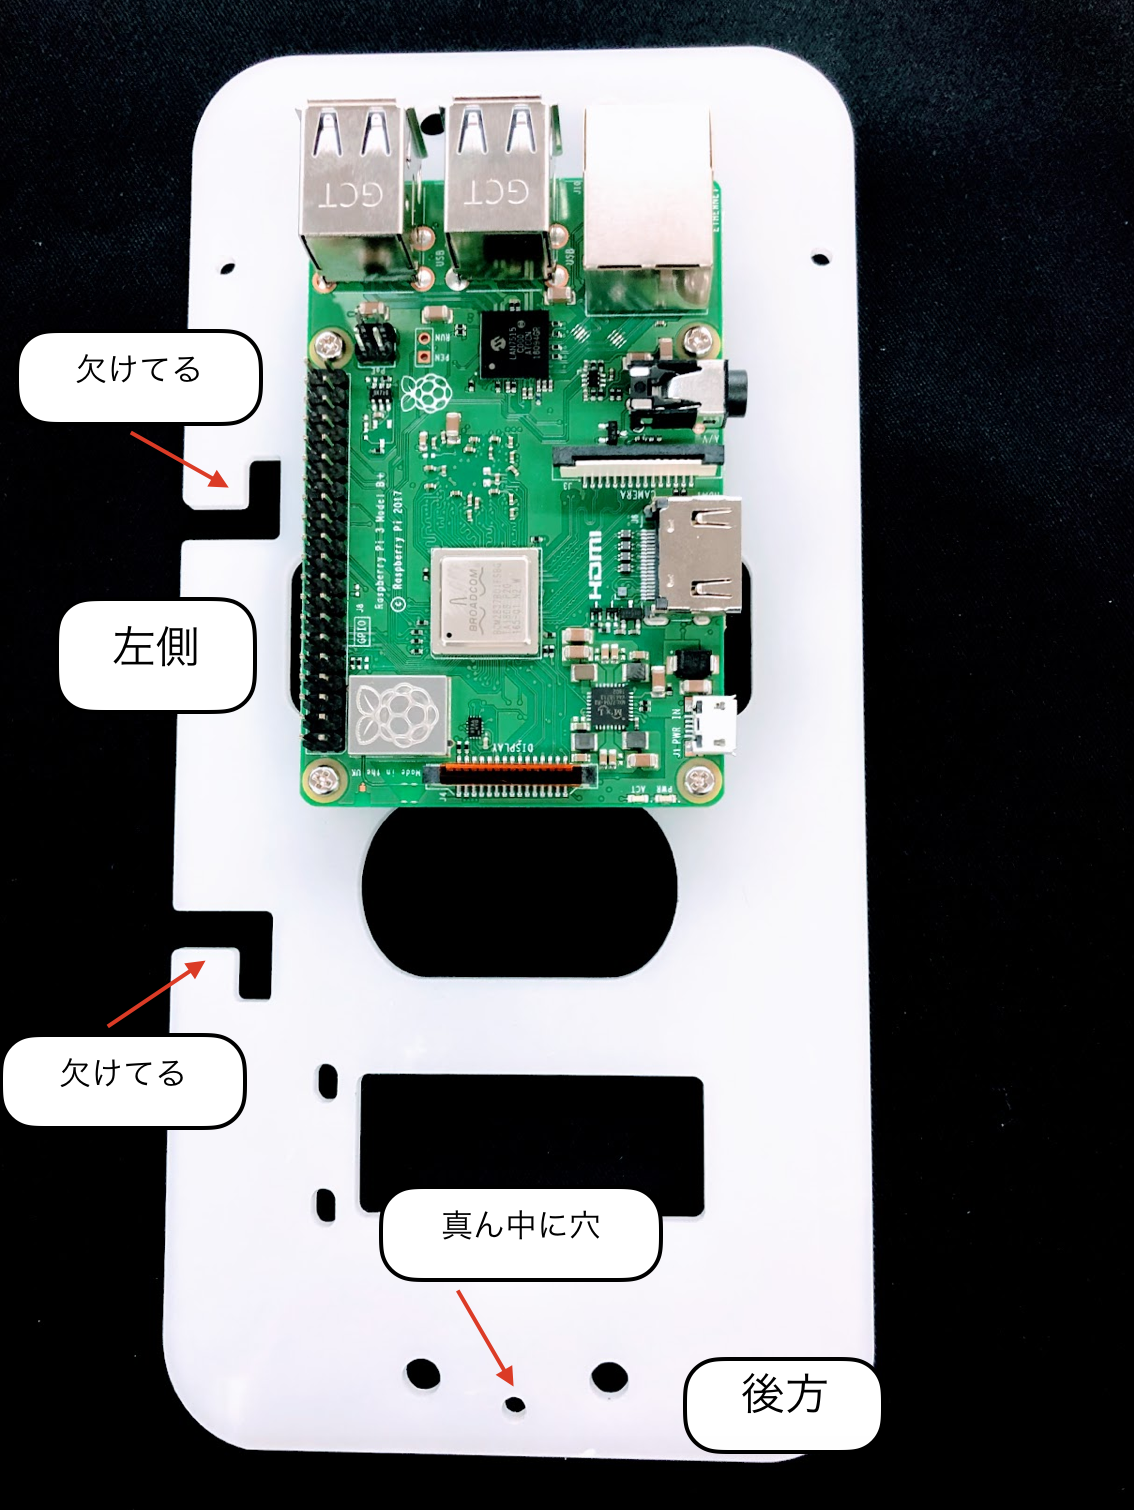
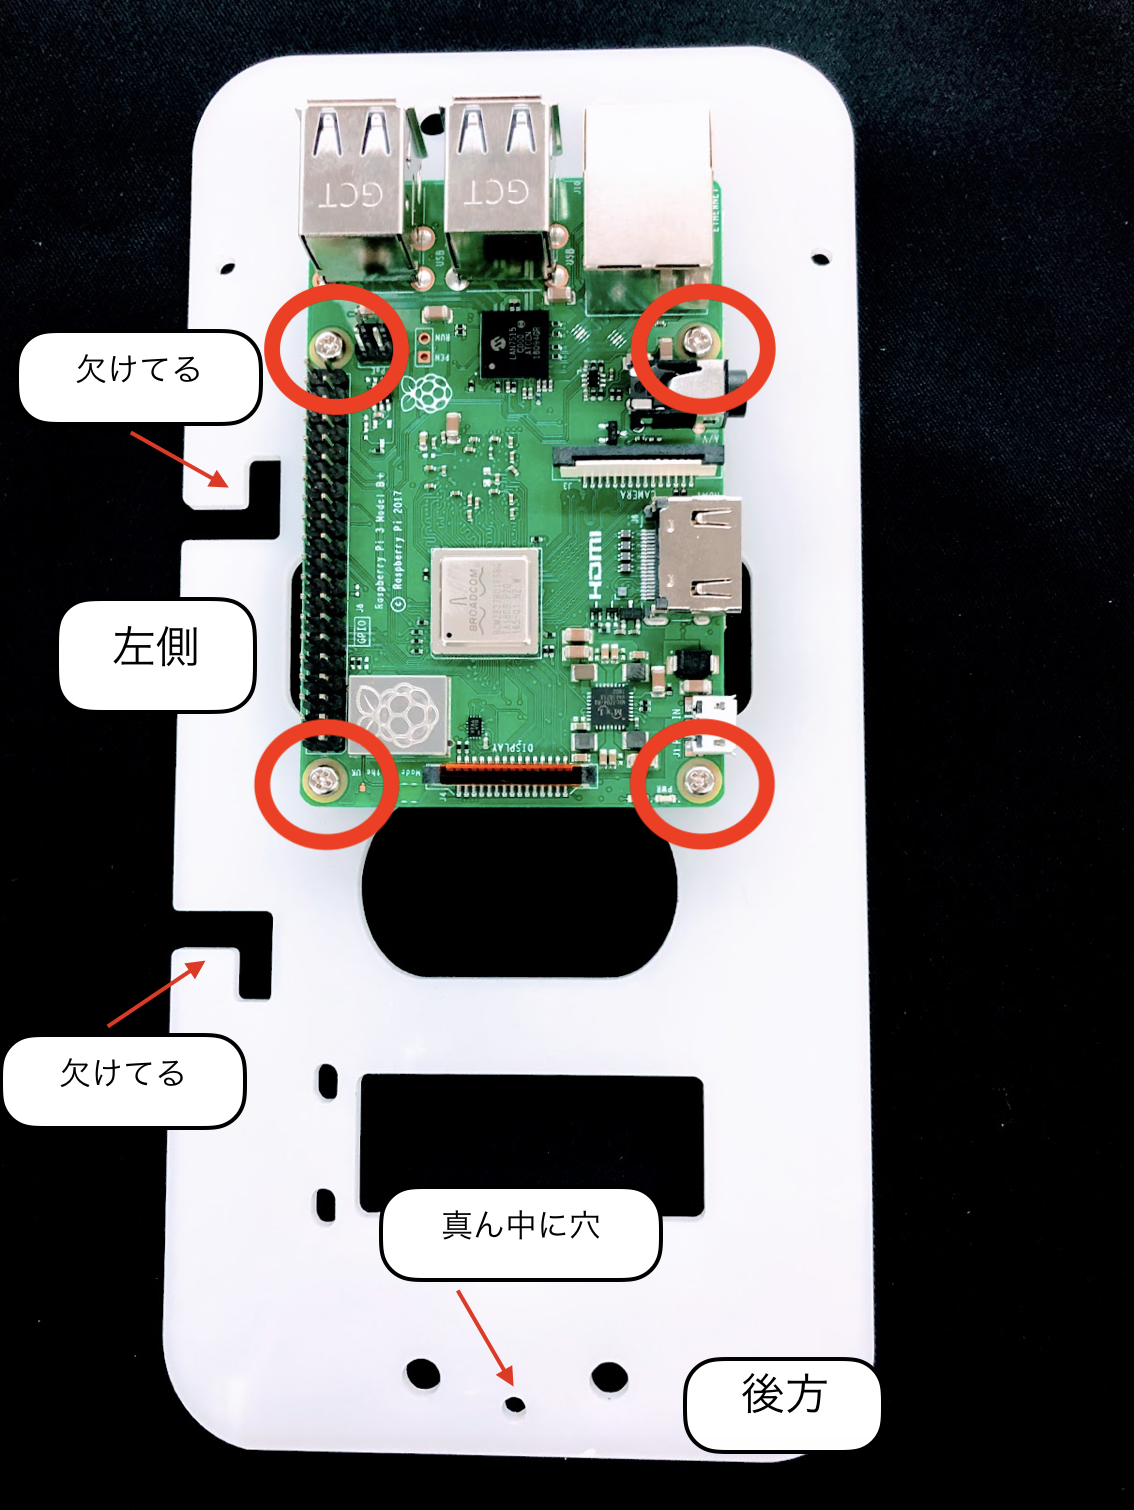
文言修正、写真追加

Changed region(s): [[0.216, 0.1245, 0.7099, 0.5603], [0.6173, 0.3113, 0.6481, 0.3424], [0.4938, 0.1245, 0.5247, 0.1556]]

diff --git a/site/index.html b/site/index.html
@@ -68,7 +68,7 @@
     <div data-md-component="skip">
       
         
-        <a href="#fabo-donkeycar-docs" class="md-skip">
+        <a href="#fabo-donkey-car-docs" class="md-skip">
           コンテンツにスキップ
         </a>
       
@@ -90,8 +90,15 @@
     </label>
     <div class="md-header-nav__title" data-md-component="header-title">
       
-        <div class="md-header-nav__ellipsis md-ellipsis">
-          FaBo DonkeyCar Docs
+        <div class="md-header-nav__ellipsis">
+          <span class="md-header-nav__topic md-ellipsis">
+            FaBo DonkeyCar Docs
+          </span>
+          <span class="md-header-nav__topic md-ellipsis">
+            
+              FaBo Donkey Car Docs
+            
+          </span>
         </div>
       
     </div>
@@ -142,14 +149,14 @@
     
     
       <label class="md-nav__link md-nav__link--active" for="__toc">
-        FaBo DonkeyCar Docs
+        FaBo Donkey Car Docs
         <span class="md-nav__icon md-icon">
           <svg xmlns="http://www.w3.org/2000/svg" viewBox="0 0 24 24"><path d="M3 9h14V7H3v2m0 4h14v-2H3v2m0 4h14v-2H3v2m16 0h2v-2h-2v2m0-10v2h2V7h-2m0 6h2v-2h-2v2z"/></svg>
         </span>
       </label>
     
-    <a href="." title="FaBo DonkeyCar Docs" class="md-nav__link md-nav__link--active">
-      FaBo DonkeyCar Docs
+    <a href="." title="FaBo Donkey Car Docs" class="md-nav__link md-nav__link--active">
+      FaBo Donkey Car Docs
     </a>
     
       
@@ -168,8 +175,8 @@
     <ul class="md-nav__list" data-md-scrollfix>
       
         <li class="md-nav__item">
-  <a href="#fabo-donkeycar-docs_1" class="md-nav__link">
-    FaBo DonkeyCar Docsについて
+  <a href="#fabo-donkey-car-docs_1" class="md-nav__link">
+    FaBo Donkey Car Docsについて
   </a>
   
 </li>
@@ -196,8 +203,8 @@
 </li>
       
         <li class="md-nav__item">
-  <a href="#donkeycarfabo-store" class="md-nav__link">
-    DonkeyCarの購入先(FaBo Store)
+  <a href="#donkey-carfabo-store" class="md-nav__link">
+    Donkey Carの購入先(FaBo Store)
   </a>
   
 </li>
@@ -218,7 +225,7 @@
       
         <li class="md-nav__item">
   <a href="#fabo" class="md-nav__link">
-    FaBo教材
+    FaBo 教材
   </a>
   
 </li>
@@ -730,8 +737,8 @@
     <ul class="md-nav__list" data-md-scrollfix>
       
         <li class="md-nav__item">
-  <a href="#fabo-donkeycar-docs_1" class="md-nav__link">
-    FaBo DonkeyCar Docsについて
+  <a href="#fabo-donkey-car-docs_1" class="md-nav__link">
+    FaBo Donkey Car Docsについて
   </a>
   
 </li>
@@ -758,8 +765,8 @@
 </li>
       
         <li class="md-nav__item">
-  <a href="#donkeycarfabo-store" class="md-nav__link">
-    DonkeyCarの購入先(FaBo Store)
+  <a href="#donkey-carfabo-store" class="md-nav__link">
+    Donkey Carの購入先(FaBo Store)
   </a>
   
 </li>
@@ -780,7 +787,7 @@
       
         <li class="md-nav__item">
   <a href="#fabo" class="md-nav__link">
-    FaBo教材
+    FaBo 教材
   </a>
   
 </li>
@@ -801,10 +808,10 @@
                   
                 
                 
-                <h1 id="fabo-donkeycar-docs">FaBo DonkeyCar Docs</h1>
+                <h1 id="fabo-donkey-car-docs">FaBo Donkey Car Docs</h1>
 <p><img alt="" src="img/DonkeyCarMain.jpg" /></p>
-<h2 id="fabo-donkeycar-docs_1">FaBo DonkeyCar Docsについて</h2>
-<p>DonkeyCarに関するドキュメントです。</p>
+<h2 id="fabo-donkey-car-docs_1">FaBo Donkey Car Docsについて</h2>
+<p>Donkey Carに関するドキュメントです。</p>
 <h2 id="_1">修正依頼等</h2>
 <p>GithubのRepoに<a href="https://github.com/FaBoPlatform/DonkeyDocs/issues">Issues</a>をあげてください。</p>
 <h2 id="discord">サポート Discord</h2>
@@ -820,17 +827,17 @@
 <li>2019年6月22日 AI RCカー勉強会＠柏の葉「Donkey Carハンズオン」(14台)</li>
 <li>2019年7月17日 AIでRCカーを走らせよう!(アスキー角川主催)(11台)</li>
 <li>2019年9月8日 AIカー柏ハンズオン(10台)</li>
-<li>2019年11月4日 ABCD会津 DonkeyCarハンズオン(日本Androidの会 会津支部)(10台)</li>
-<li>2019年11月6日 DonkeyCarハンズオン&amp;レース(会津大学主催)(10台)</li>
+<li>2019年11月4日 ABCD会津 Donkey Carハンズオン(日本Androidの会 会津支部)(10台)</li>
+<li>2019年11月6日 Donkey Carハンズオン&amp;レース(会津大学主催)(10台)</li>
 <li>2019年11月9日 AIでRCカーを走らせよう！＠SHIBUYA QWS(AIでRCカーを走らせよう！主催)(8台)</li>
 <li>2020年1月14日 AI ラジコン Car Hands-On(日本大学 Nihon Technology Students Association主催)(10台)</li>
-<li>2020年2月15日 DonkeyCarもくもく会(富士通Ply主催)(8台)</li>
+<li>2020年2月15日 Donkey Carもくもく会(富士通Ply主催)(8台)</li>
 <li>2020年2月21日 研究所向け新入社員研修(14台)</li>
-<li>2020年11月21日 東京未来ファクトリーで高校生向けにDonkeyCarハンズオンを実施(企画運営:株式会社角川アスキー研究所/ 主催:東京都教育委員会)(22名参加,8台)</li>
+<li>2020年11月21日 東京未来ファクトリーで高校生向けにDonkey Carハンズオンを実施(企画運営:株式会社角川アスキー研究所/ 主催:東京都教育委員会)(22名参加,8台)</li>
 </ul>
-<h2 id="donkeycarfabo-store">DonkeyCarの購入先(FaBo Store)</h2>
+<h2 id="donkey-carfabo-store">Donkey Carの購入先(FaBo Store)</h2>
 <ul>
-<li><a href="https://fabo.store/collections/donkeycar/products/donkeycar-kit-1">DonkeyCar Kit</a></li>
+<li><a href="https://fabo.store/collections/donkeycar/products/donkeycar-kit-1">Donkey Car Kit</a></li>
 </ul>
 <h2 id="_3">関連記事</h2>
 <ul>
@@ -844,12 +851,12 @@
 <ul>
 <li><a href="https://faboplatform.github.io/JetracerDocs/">JetRacer Docs</a></li>
 <li><a href="https://faboplatform.github.io/JetbotDocs/">JetBot Docs</a></li>
-<li><a href="https://faboplatform.github.io/DonkeyDocs/">DonkeyCar Docs</a></li>
+<li><a href="https://faboplatform.github.io/DonkeyDocs/">Donkey Car Docs</a></li>
 <li><a href="https://faboplatform.github.io/EdgeAIDocs/">EdgeAI Docs</a></li>
 <li><a href="https://faboplatform.github.io/JetBook/">JetBook Docs</a></li>
 <li><a href="https://faboplatform.github.io/NSynthDocs/">NSynth Docs</a></li>
 </ul>
-<h2 id="fabo">FaBo教材</h2>
+<h2 id="fabo">FaBo 教材</h2>
 <ul>
 <li><a href="https://faboplatform.github.io/ArduinoDocs/">Arduino Docs</a></li>
 <li><a href="https://faboplatform.github.io/RaspberryPIDocs/">RaspberryPi Docs</a></li>
